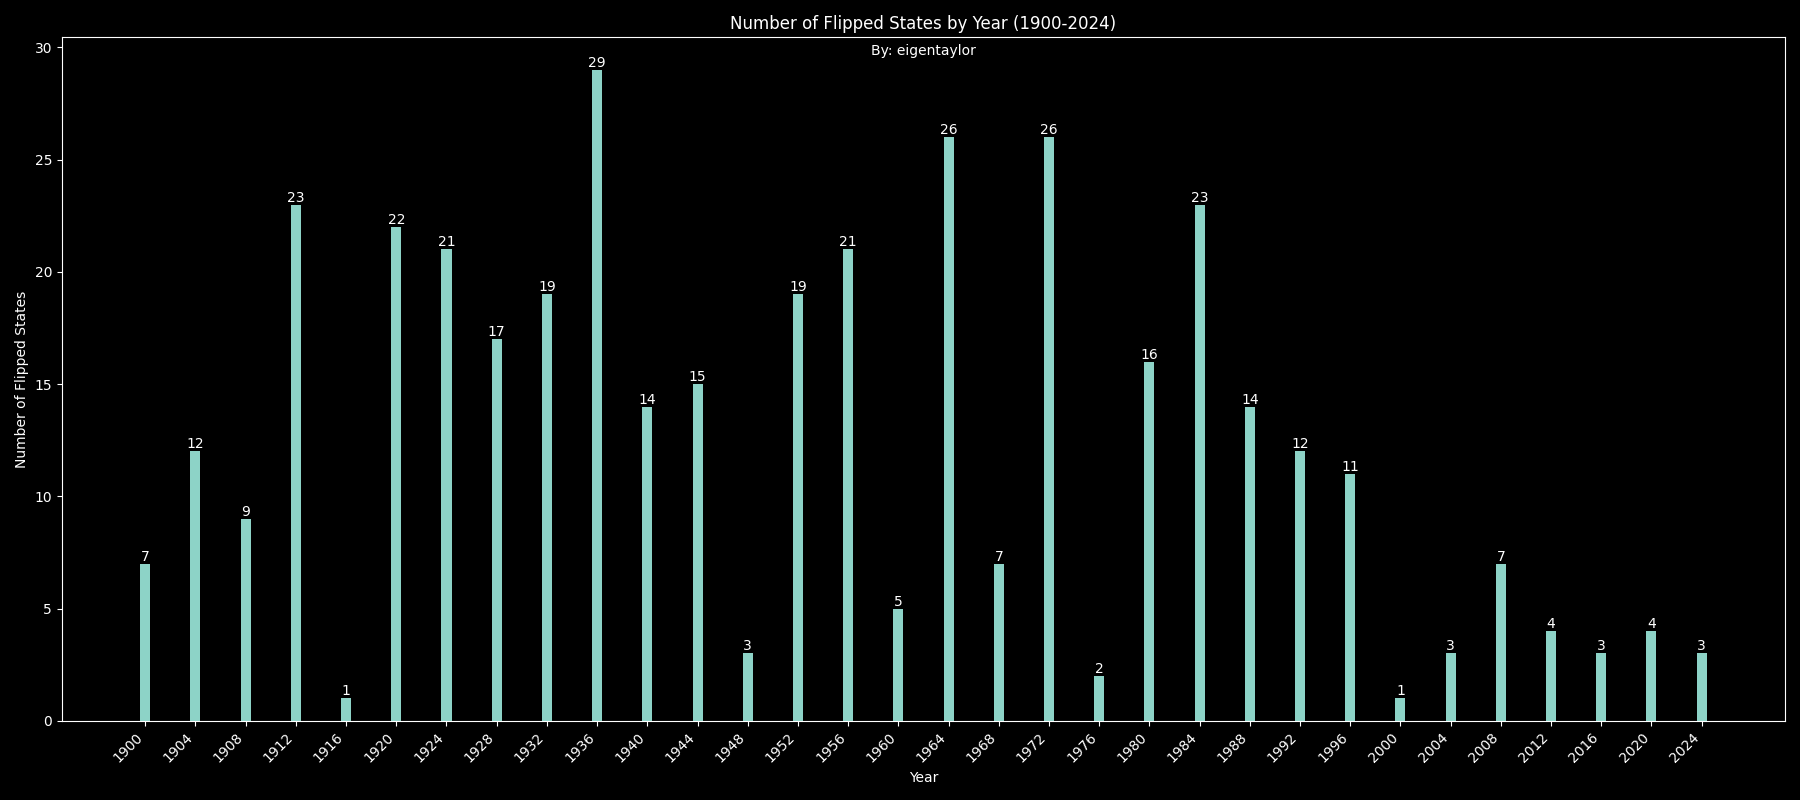
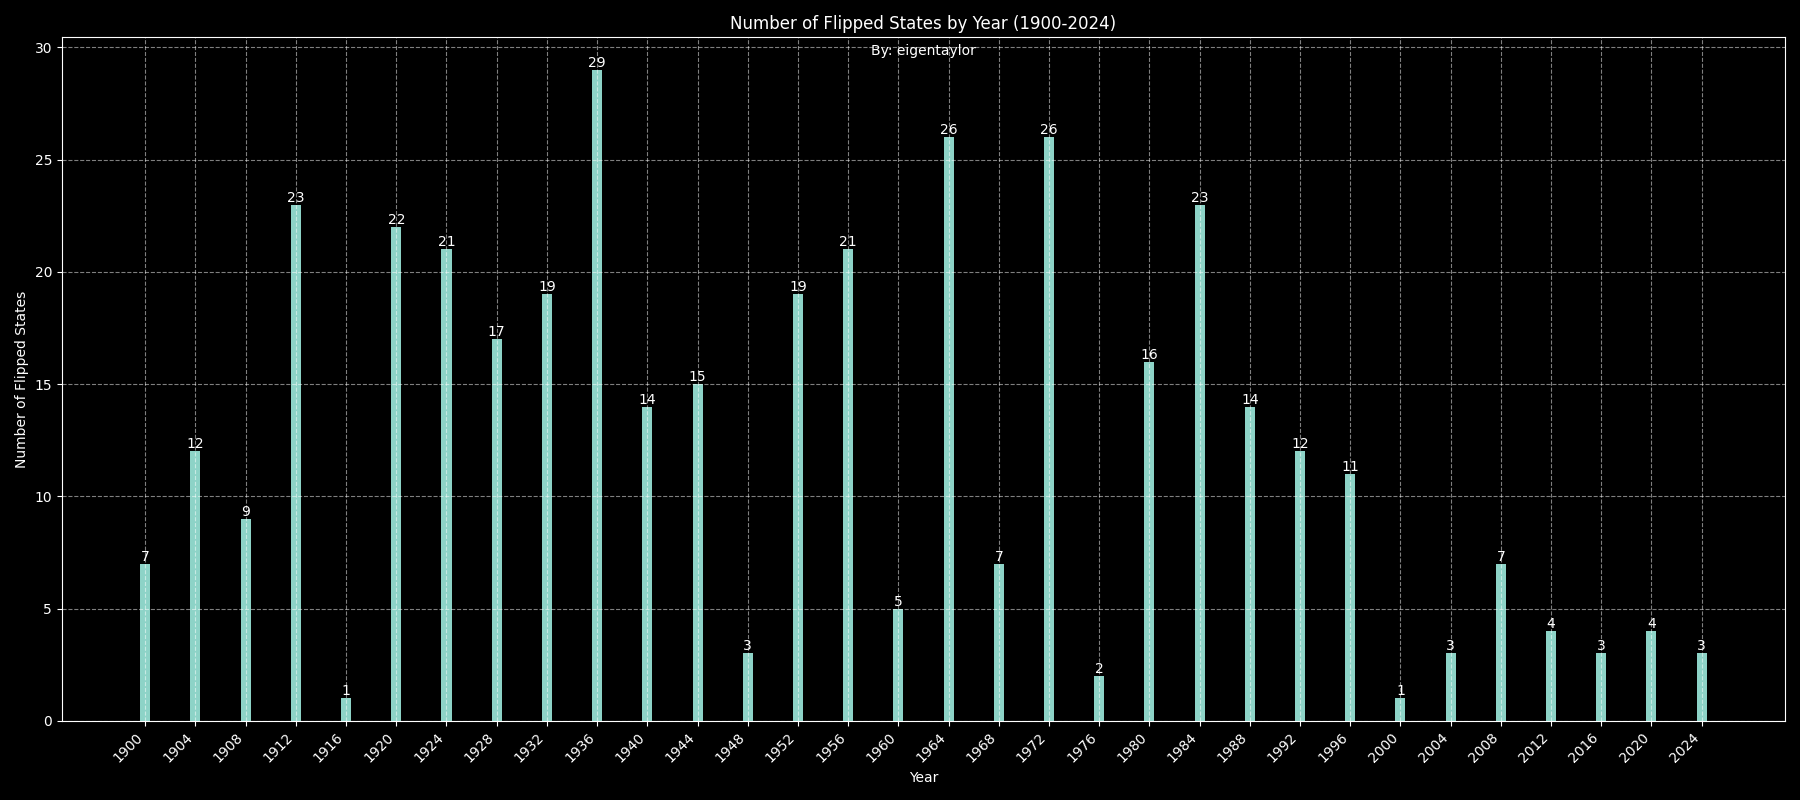
Update colors
Update color scheme for election results and enhance plot visibility

diff --git a/flexible_vote_margins.py b/flexible_vote_margins.py
@@ -109,12 +109,12 @@ def get_flip_results(election_results_df, print_results=False):
         total_votes_winner = election_results[winner + '_votes'].sum()
         total_votes_loser = election_results[loser + '_votes'].sum()
         # set the color to be blue for democrat and red for republican
-        color = 'blue' if election_results['D_votes'].sum() > election_results['R_votes'].sum() else 'red'
+        color = 'deepskyblue' if election_results['D_votes'].sum() > election_results['R_votes'].sum() else 'red'
         if year == 1960:
             # this year was f'd up. WTF ALABAMA AND MISSISSIPPI
             total_votes_winner = 34220984
             total_votes_loser = 34108157
-            color = 'blue'
+            color = 'deepskyblue'
         popular_vote_margin = total_votes_winner - total_votes_loser
         abs_popular_vote_margin = abs(popular_vote_margin)
         total_votes_in_year = election_results['totalvotes'].sum()
@@ -174,6 +174,7 @@ def make_plot(flip_results_df, start_year, end_year, plot_count, key, ylabel, ti
     plt.xlabel('Year')
     plt.xticks(flip_results_df.index, rotation=45, ha='right')
     plt.ylabel(ylabel)
+    plt.grid(True, linestyle='--', alpha=0.5)
     plt.title(title)
     
     # Check if all values are integers
@@ -242,6 +243,7 @@ def make_bar_plot(flip_results_df, start_year, end_year, plot_count, key, ylabel
     plt.ylabel(ylabel)
     plt.title(title)
     plt.xticks(flip_results_df.index, rotation=45, ha='right')
+    plt.grid(True, linestyle='--', alpha=0.5)
     plt.tight_layout()
     # add my name (since this is a bar plot, put it at the top)
     plt.text(0.5, 0.99, 'By: eigentaylor', ha='center', va='top', transform=plt.gca().transAxes)

diff --git a/calc_vote_margins.py b/calc_vote_margins.py
@@ -103,12 +103,12 @@ def get_flip_results(election_results_df, print_results=False):
         total_votes_winner = election_results[winner + '_votes'].sum()
         total_votes_loser = election_results[loser + '_votes'].sum()
         # set the color to be blue for democrat and red for republican
-        color = 'blue' if election_results['D_votes'].sum() > election_results['R_votes'].sum() else 'red'
+        color = 'deepskyblue' if election_results['D_votes'].sum() > election_results['R_votes'].sum() else 'red'
         if year == 1960:
             # this year was f'd up. WTF ALABAMA AND MISSISSIPPI
             total_votes_winner = 34220984
             total_votes_loser = 34108157
-            color = 'blue'
+            color = 'deepskyblue'  # special color for this year
         popular_vote_margin = total_votes_winner - total_votes_loser
         abs_popular_vote_margin = abs(popular_vote_margin)
         total_votes_in_year = election_results['totalvotes'].sum()
